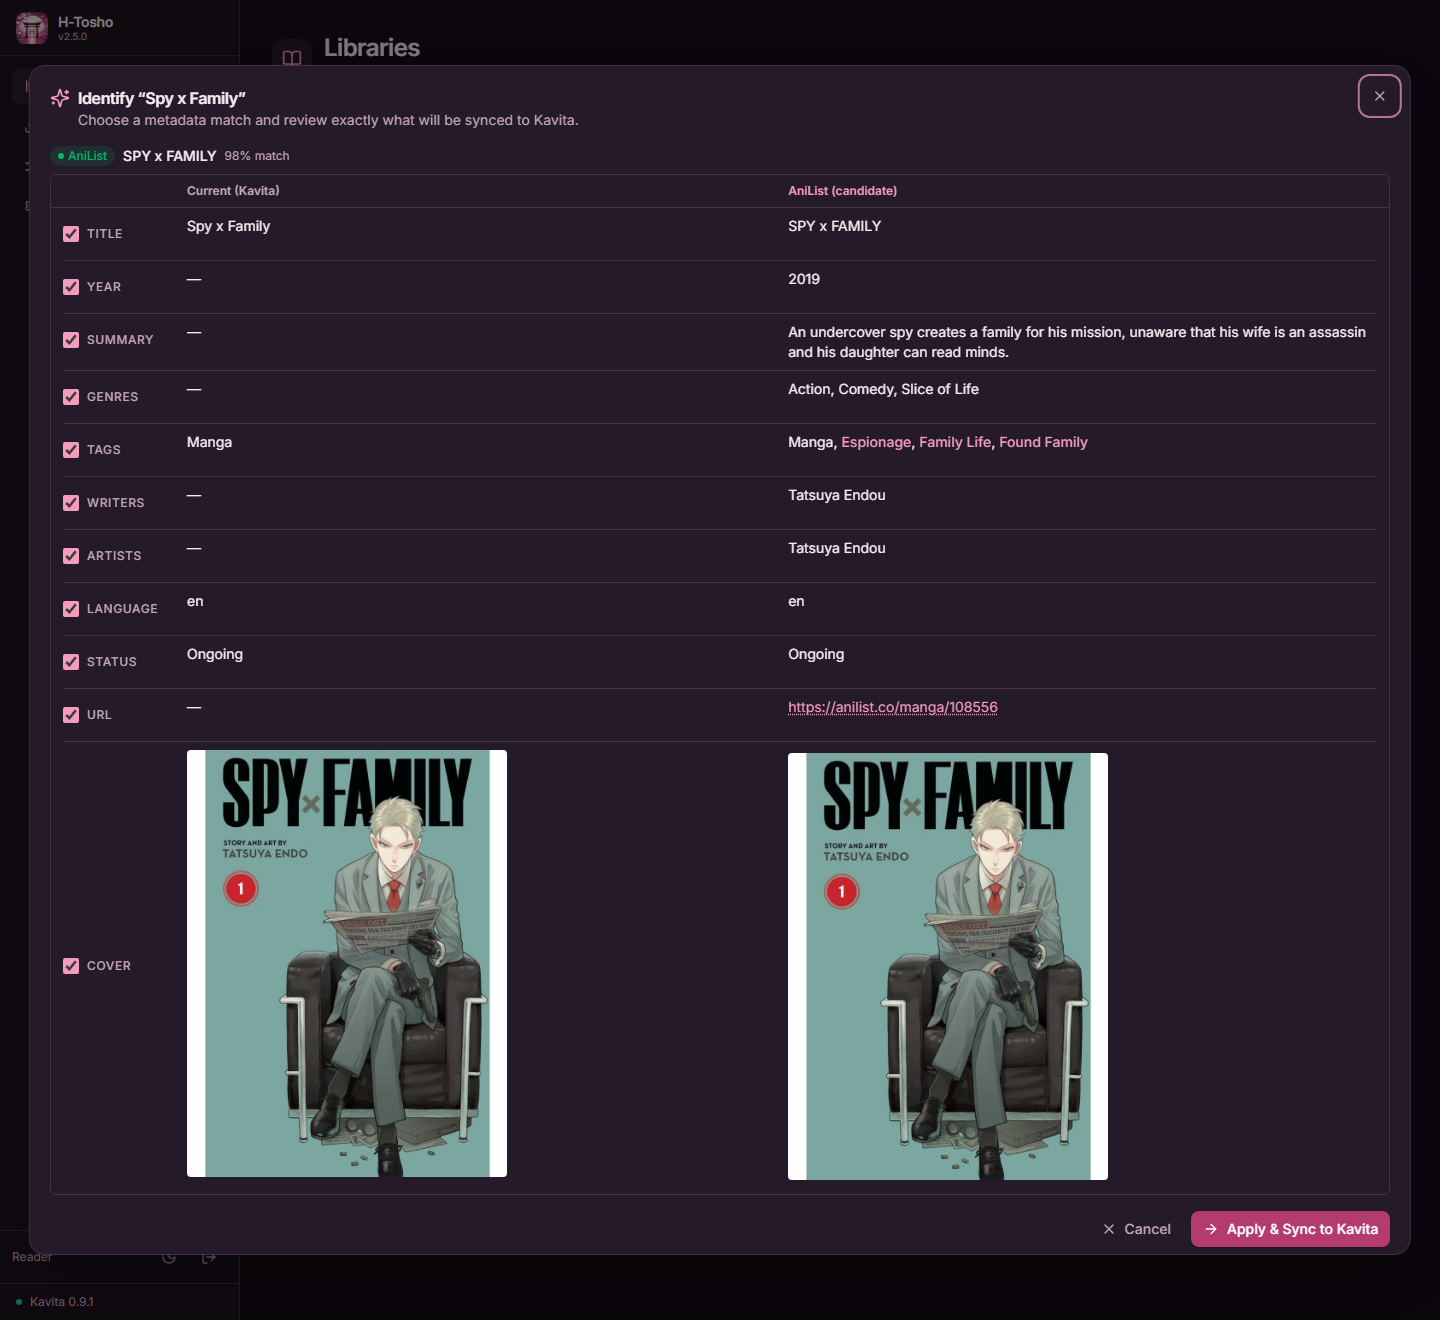
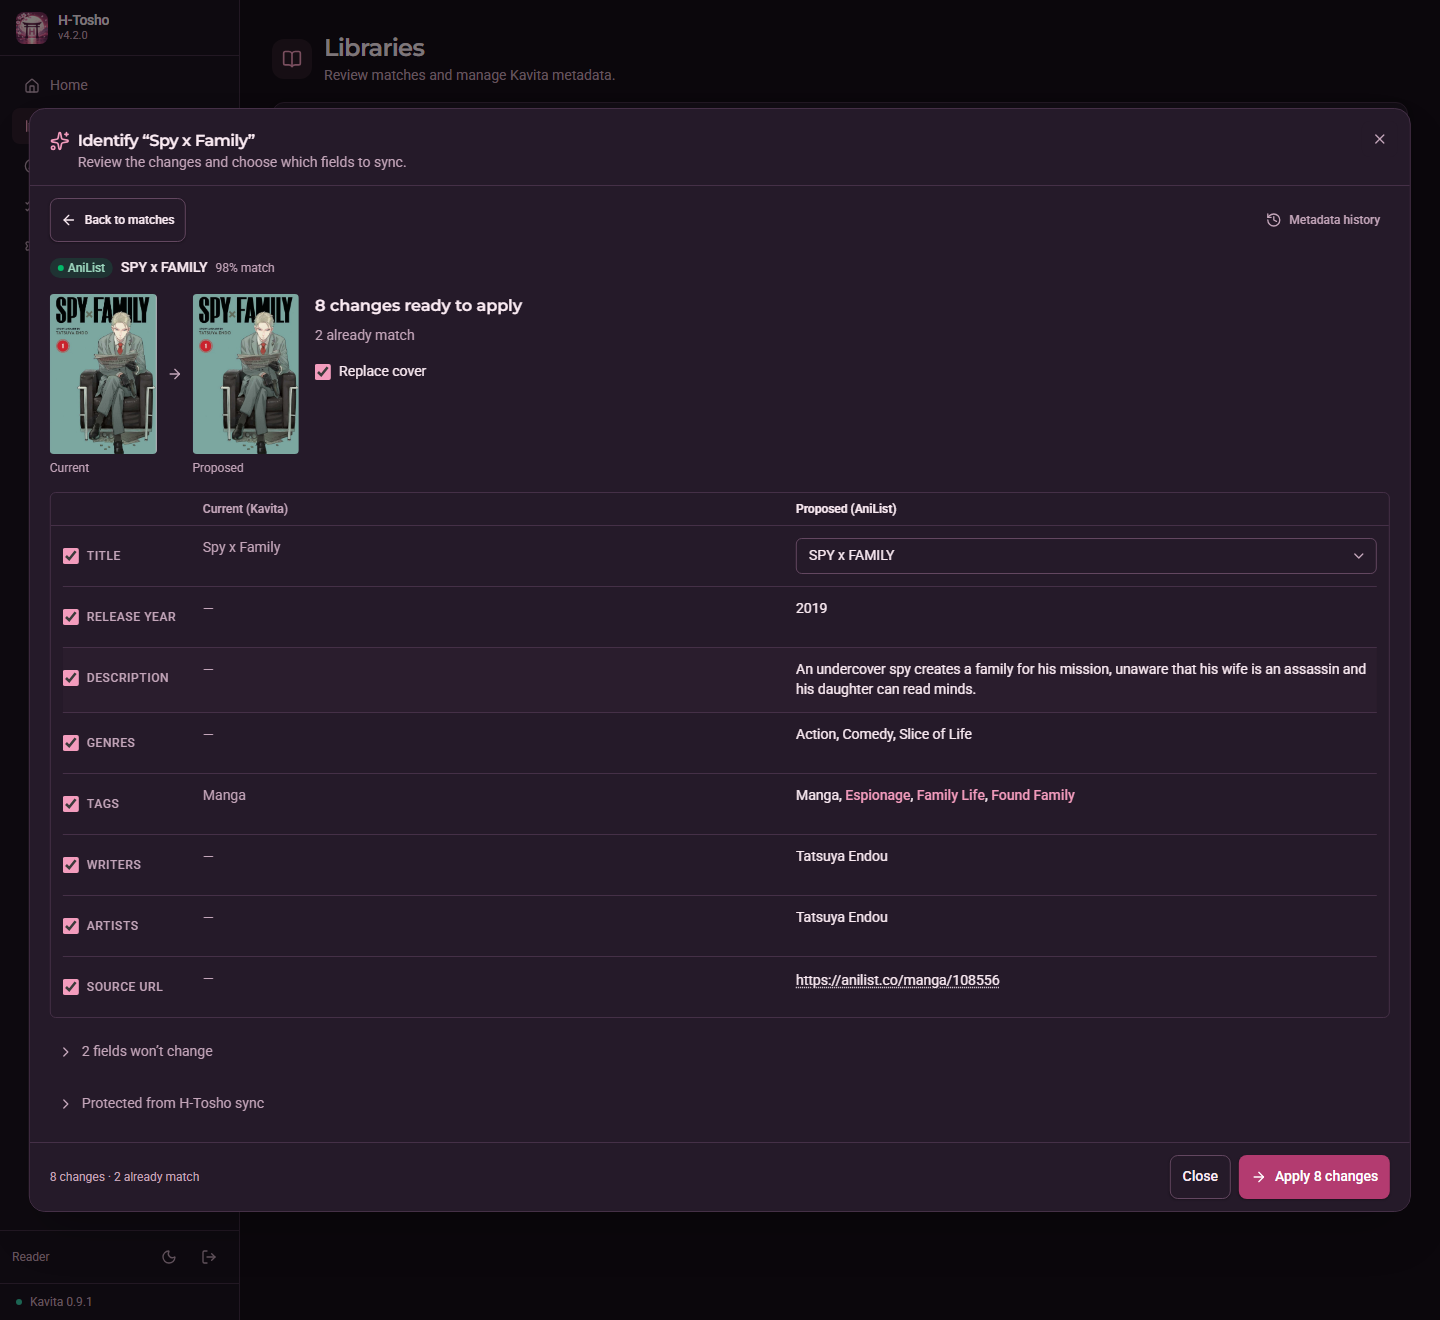
docs: refresh README screenshots for v4.2.0

diff --git a/docs/screenshots/README.md b/docs/screenshots/README.md
@@ -1,12 +1,12 @@
 # Screenshot examples and cover credits
 
-These screenshots show H-Tosho v2.5.0 rendered in a browser from the actual app
+These screenshots show H-Tosho v4.2.0 rendered in a browser from the actual app
 interface, with isolated sample data. No personal library, account credentials,
 or download history is included.
 
-- **libraries.png** — desktop Libraries page in the light theme.
+- **libraries.png** — desktop Libraries page in the dark theme.
 - **metadata-preview.png** — metadata comparison in the dark theme.
-- **libraries-mobile.png** — Libraries page at a phone viewport size.
+- **libraries-mobile.png** — Libraries page in the dark theme at a phone viewport size.
 
 The series counts, page counts, confidence scores, connection status, and
 metadata preview are examples, not live provider results. Real cover images

diff --git a/README.md b/README.md
@@ -177,7 +177,7 @@ With this example, use `/mnt/downloads` as H-Tosho's output folder.
 4. Choose **Apply & Sync**. H-Tosho applies your selection in the background;
    **Tasks** shows its progress and any warnings.
 
-![Dark-theme metadata preview for Spy x Family, showing current and proposed fields, cover art, and Apply & Sync](docs/screenshots/metadata-preview.png)
+![Dark-theme metadata preview for Spy x Family, showing current and proposed fields, cover art, and apply controls](docs/screenshots/metadata-preview.png)
 
 *Review the title, description, creators, tags, and cover before applying them.
 This preview uses sample metadata and real cover art.*
